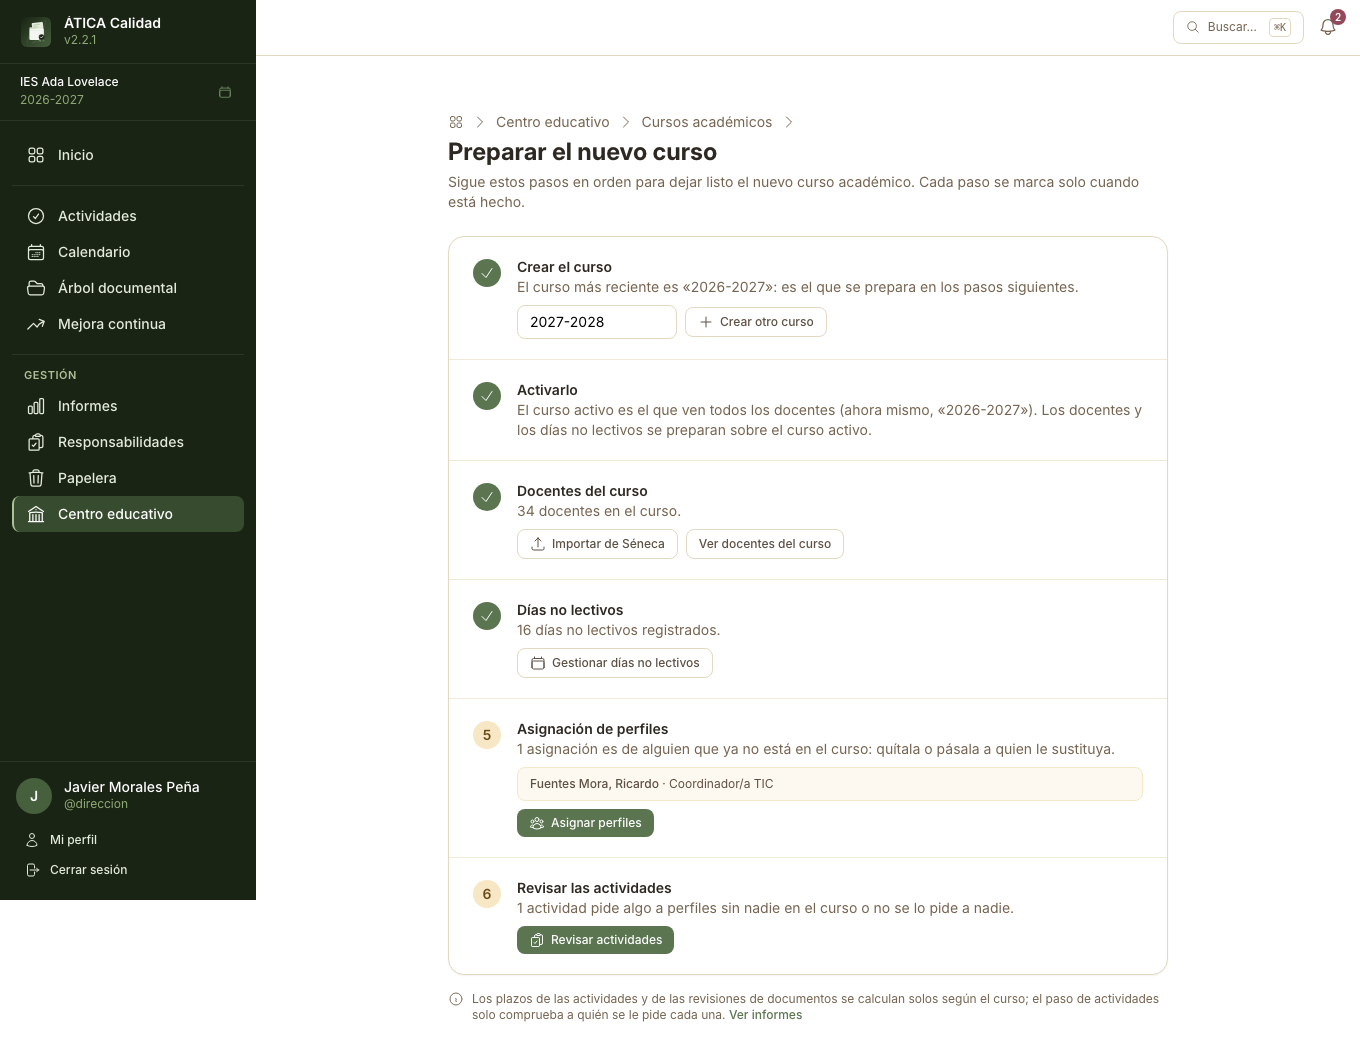
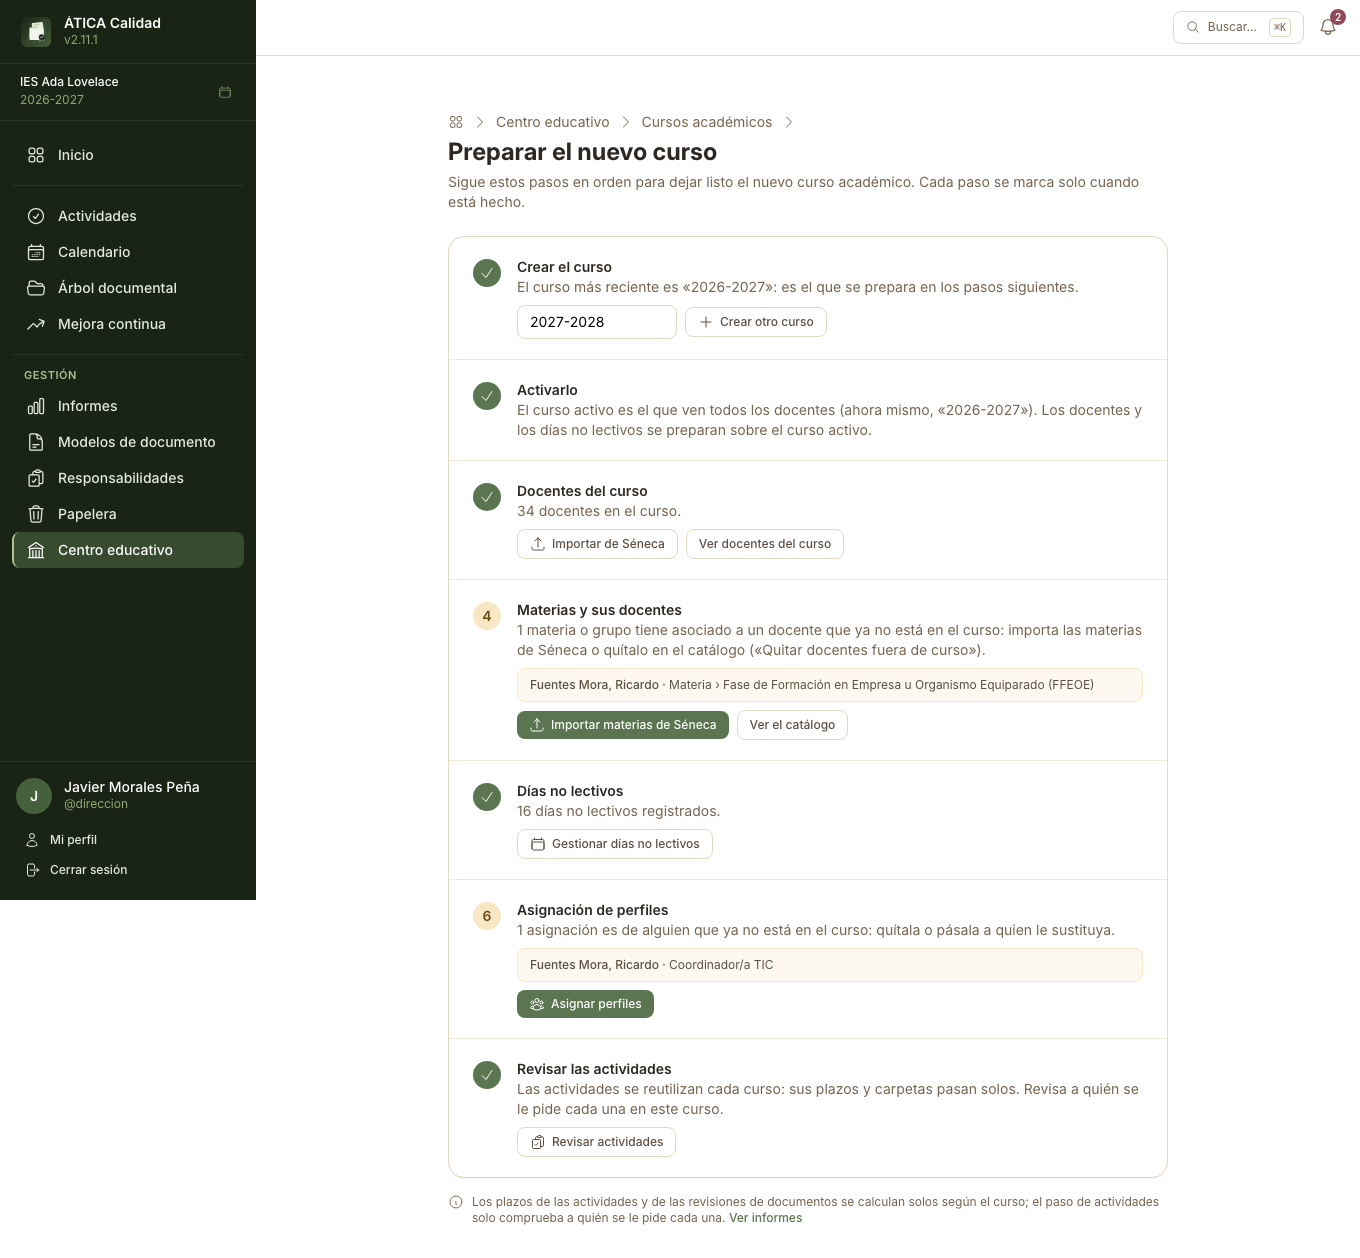
docs(years): el paso «Materias y sus docentes» en el manual, la ficha rápida, el CHANGELOG y la captura

diff --git a/CHANGELOG.md b/CHANGELOG.md
@@ -9,6 +9,7 @@ a [Semantic Versioning](https://semver.org/lang/es/).
 
 ### Added
 
+- Cursos académicos: **Preparar el nuevo curso** tiene un paso nuevo, **Materias y sus docentes** (el 4), con los botones «Importar materias de Séneca» y «Ver el catálogo». Lista las materias y grupos del catálogo que siguen a nombre de un docente que ya no está en el curso y se marca hecho cuando no queda ninguno (o si el centro no asocia docentes a las materias). La ficha rápida «Configurar un curso académico nuevo» ya dice que el asistente guía todos los pasos.
 - Responsabilidades: los elementos del catálogo pueden tener **docentes asociados** (los que imparten esa materia, ese grupo…). En el panel del elemento, el campo **Docentes** (buscador por nombre o usuario entre los del curso activo) los guarda, y se **acumulan a lo largo de la rama** como las asociaciones con perfiles: el panel dice en gris lo que hereda. El árbol muestra junto a cada elemento una insignia con el nombre del docente (o cuántos son), más clara si solo son heredados; la selección de varios elementos añade, quita o sustituye docentes de golpe; el botón **«Sin docente»** deja solo las hojas que nadie imparte, y **«Quitar docentes fuera de curso (N)»** limpia a quien ya no está en el curso (que sale en rojo, como en Asignar perfiles, y no cuenta para nada).
 - Actividades: con un elemento del catálogo y una entrega por perfil, la casilla **«Los docentes asociados a cada elemento también lo entregan»** (desmarcada por defecto) hace que cada docente asociado vea en «Mis actividades» la entrega de su elemento y pueda rellenarla y entregarla, también con los modelos rellenables. La jefatura del departamento sigue pudiendo, y la tarea es suya solo si el elemento no tiene docentes en el curso; las demás las ve en «Entregas que gestionas», sin pendientes ni retrasos. El docente puede abrir, descargar y comentar el documento de su elemento aunque no vea la carpeta (no así el ZIP de la carpeta entera). Bajo cada entrega se ven sus docentes (o «Sin docente asociado»), y el resumen del formulario cuenta los elementos sin docente. Con la casilla desmarcada nada cambia. Los docentes no crean ni quitan entregas ni cambian su identidad: un sustituto abre el borrador del anterior tal cual.
 - Modelos de documento: cada paso de la cadena de aprobación con un perfil de lista ofrece **Quién decide**: «Cualquiera con el perfil» (lo de siempre) o «Quien tenga el perfil asociado al elemento del documento». Con la segunda, la programación de una materia la decide solo la jefatura de su departamento (o la que entrega el documento, si es del mismo perfil), que es la única que la ve en su cola de revisión; si no hay a quién limitarse, el paso queda abierto a cualquiera con el perfil y la página del documento lo dice. Si un paso está limitado o no lo fija el modelo al empezar la cadena; quién lo decide sigue a las asociaciones del catálogo en cada momento.

diff --git a/docs/manual/02-preparar-el-curso-academico.md b/docs/manual/02-preparar-el-curso-academico.md
@@ -49,13 +49,22 @@ solos cuando están hechos. Cada paso incluye su propio botón o un enlace a la 
 3. **Docentes del curso.** Con **Copiar docentes** se añaden de un clic todos los docentes de un
    curso anterior; después basta con quitar a quien ya no esté. Si tienes el listado de Séneca,
    también puedes importarlo.
-4. **Días no lectivos.** Sin ellos, los recordatorios por correo se envían también en vacaciones y
+4. **Materias y sus docentes.** Las materias, los grupos y quién imparte cada uno (los
+   [docentes asociados](06-responsabilidades.md#docentes-asociados) a los elementos del catálogo) pasan
+   de un curso a otro. **Importar materias de Séneca** abre la
+   [importación de «Materias y grupos»](06-responsabilidades.md#importar-desde-seneca) del curso nuevo,
+   que los pone al día. El paso lista las materias o grupos que siguen a nombre de un docente que ya no
+   está en el curso (su nombre y la ruta del elemento, como «Materia › 1º ESO › Física y Química»); se resuelve importando o con **Quitar docentes
+   fuera de curso** en el catálogo. Si el centro no asocia docentes a las materias, sale hecho.
+5. **Días no lectivos.** Sin ellos, los recordatorios por correo se envían también en vacaciones y
    festivos.
-5. **Asignación de perfiles.** Los perfiles y sus asignaciones pasan de un curso a otro. Este paso
+6. **Asignación de perfiles.** Los perfiles y sus asignaciones pasan de un curso a otro. Este paso
    lista las asignaciones de docentes que ya no están en el curso (una jefatura o una tutoría que
    sigue a nombre de alguien que se fue), para quitarlas o pasarlas a quien le sustituya.
+7. **Revisar las actividades.** Las actividades se reutilizan cada curso; este paso señala las que
+   piden algo a perfiles sin nadie en el curso o no se lo piden a nadie.
 
-![«Preparar el nuevo curso», con los pasos hechos marcados y los pendientes numerados](img/curso-preparar.png)
+![«Preparar el nuevo curso», con los pasos hechos marcados y los pendientes numerados: en «Materias y sus docentes», la materia «Fase de Formación en Empresa u Organismo Equiparado (FFEOE)» sigue a nombre de un docente que ya no está, con los botones «Importar materias de Séneca» y «Ver el catálogo»; en «Asignación de perfiles», su asignación de «Coordinador/a TIC»](img/curso-preparar.png)
 
 Las actividades y las revisiones de documentos no necesitan preparación: sus plazos se calculan
 solos según el curso.

diff --git a/docs/cheatsheets/curso-nuevo.md b/docs/cheatsheets/curso-nuevo.md
@@ -44,7 +44,7 @@ footer: 'v{{VERSION}} ({{PUB_DATE}}) · ÁTICA Calidad'
 <div class="nota">
   <p>Con los ficheros de Séneca a mano, todo el proceso lleva pocos minutos y se repite una vez
   al año, al abrir cada curso nuevo. <strong>Centro educativo › Cursos académicos › Preparar el
-  nuevo curso</strong> guía los pasos 1, 2, 4 y 5 y marca los que ya están hechos; allí también se
+  nuevo curso</strong> guía todos estos pasos y marca los que ya están hechos; allí también se
   pueden copiar los docentes del curso anterior. Detalle completo en el capítulo «Preparar el curso
   académico» del manual.</p>
 </div>
@@ -122,7 +122,8 @@ footer: 'v{{VERSION}} ({{PUB_DATE}}) · ÁTICA Calidad'
 
 <div class="nota">
   <p>Hazlo <strong>después de añadir el profesorado</strong>: los nombres se buscan entre los docentes
-  del curso activo.</p>
+  del curso activo. En <strong>Preparar el nuevo curso</strong>, el paso «Materias y sus docentes»
+  enlaza con esta importación y lista las materias que siguen a nombre de quien ya no está.</p>
 </div>
 
 ---

diff --git a/skills/screenshots.md b/skills/screenshots.md
@@ -29,7 +29,7 @@ passwords equal to the username unless noted:
 | `calidad` | `calidad` | Quality manager (Laura Jiménez Soto) |
 | `multicentro` | `multicentro` | Belongs to **two centres**: the only account shown the centre selection screen |
 | `a.ruiz`, `p.sánchez`... | `prueba` | The 30 rank-and-file teachers (username = initial + first surname) |
-| `r.fuentes` | `prueba` | **Former** teacher: exists, is *not* in the 2026-2027 course, and still holds the profile «Coordinador/a TIC» |
+| `r.fuentes` | `prueba` | **Former** teacher: exists, is *not* in the 2026-2027 course, and still holds the profile «Coordinador/a TIC» and teaches FFEOE (so «Preparar el nuevo curso» shows steps 4 «Materias y sus docentes» and 6 «Asignación de perfiles» to do) |
 
 The second centre is «CEIP Miguel Hernández» (`18700123`), empty, only so `multicentro` has to choose.
 
